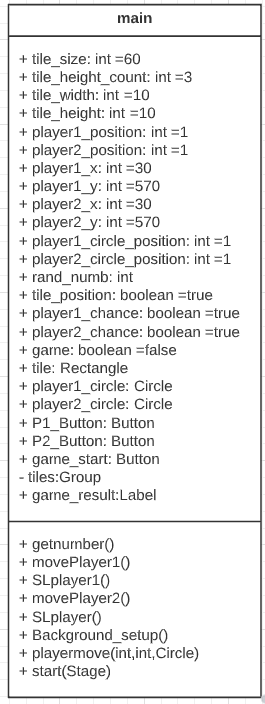
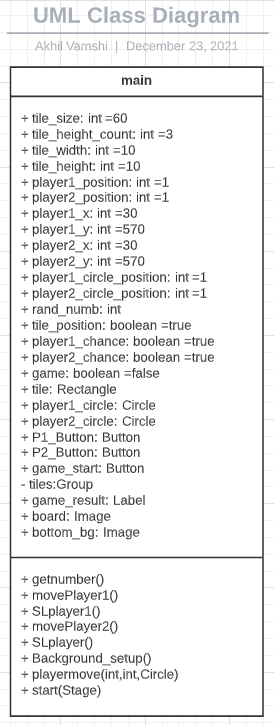
new atts

Changed region(s): [[0.0, 0.0, 1.0, 1.0]]

diff --git a/main.java b/main.java
@@ -27,6 +27,9 @@ public class main extends Application{
     private Group tiles=new Group();
     
     public Label game_result;
+
+    public Image board;
+    public Image bottom_bg;
     
     public Circle player1_circle;
     public Circle player2_circle;
@@ -676,13 +679,13 @@ public class main extends Application{
         game_result.setTranslateX(260);
         game_result.setTranslateY(650);
 
-        Image board=new Image("board.jpeg");
+        board=new Image("board.jpeg");
         ImageView background=new ImageView();
         background.setImage(board);
         background.setFitHeight(600);
         background.setFitWidth(600);
         
-        Image bottom_bg=new Image("bg.jpg");
+        bottom_bg=new Image("bg.jpg");
         ImageView bg=new ImageView();
         
         bg.setImage(bottom_bg);
